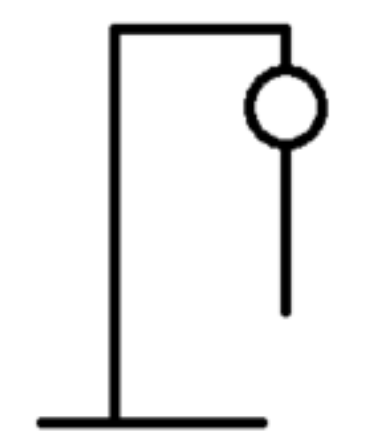
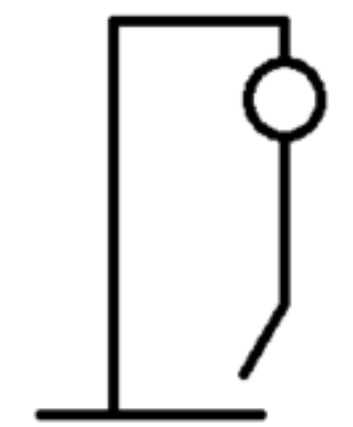
added check so if innocorrect guesses is equal to 1,2,or 3 the h2 css changes to display yellow as a sort of warning. Else if the user ecceeds 3 it will show a high warning of red. I have also been playing around trying to get correctly chosen letters to display on the h2

Changed region(s): [[0.0935, 0.0304, 0.9348, 1.0]]

diff --git a/scripts/scripts.js b/scripts/scripts.js
@@ -2,6 +2,7 @@ const hintDiv = document.getElementById("displayHints");
 const displayLettersDiv = document.getElementById("displayLetters");
 const buttons = document.querySelectorAll(".letterButton");
 const inncorrectGuessesDisplay = document.getElementById("inncorrectGuesses")
+const mainImg = document.getElementById("mainImg");
 
 console.log(buttons);
 
@@ -133,9 +134,18 @@ buttons.forEach(button => {
         console.log(`${guessedLetter} is not in the word.`);
         // Add your logic for incorrect guess here
         button.classList.add("wrongSelection");
+        
         incorrectGuesses++;
         console.log(incorrectGuesses)
-
+        if(incorrectGuesses === 1 || incorrectGuesses === 2 || incorrectGuesses === 3)
+        {
+          inncorrectGuessesDisplay.classList.add("lowWarning");
+        }
+        else
+        {
+          inncorrectGuessesDisplay.classList.add("highWarning");
+        }
+        mainImg.src = `images/${incorrectGuesses}.png`
         inncorrectGuessesDisplay.innerHTML = `<h2 id ="incorrectGuessesDisplay">Incorrect guesses: ${incorrectGuesses}/6</h2>`;
       }
       button.disabled = true; 

diff --git a/index.html b/index.html
@@ -21,7 +21,7 @@
     <section id = "mainSection">
         <div class="row">
             <div class="column">
-                <img src="images/1.png" alt="">
+                <img id="mainImg" src="images/0.png" alt="">
             </div>
              
             <div class="column" id="column2">

diff --git a/css/style.scss b/css/style.scss
@@ -123,11 +123,24 @@ button
 }
 
 
+.lowWarning
+{
+    
+    color:  #FFCC00;
+    
+}
+
+.highWarning
+{
+    color: #FF0000
+}
+
 body
 {
     background-color: #8c9df9;
     font-family: "Quick-sand",sans-serif;
 }
+
 
 
 #column2

diff --git a/css/style.css b/css/style.css
@@ -103,6 +103,14 @@ button:hover {
   background: #d8defd;
 }
 
+.lowWarning {
+  color: #FFCC00;
+}
+
+.highWarning {
+  color: #FF0000;
+}
+
 body {
   background-color: #8c9df9;
   font-family: "Quick-sand", sans-serif;
